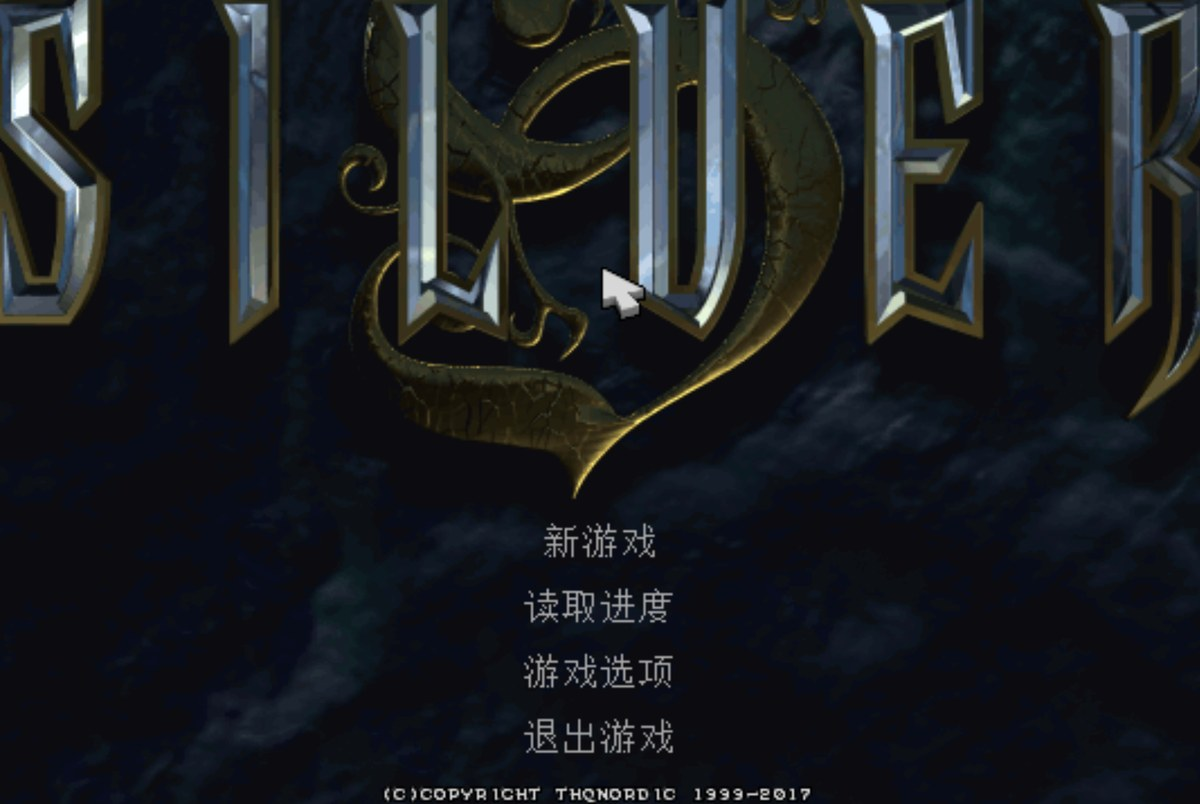
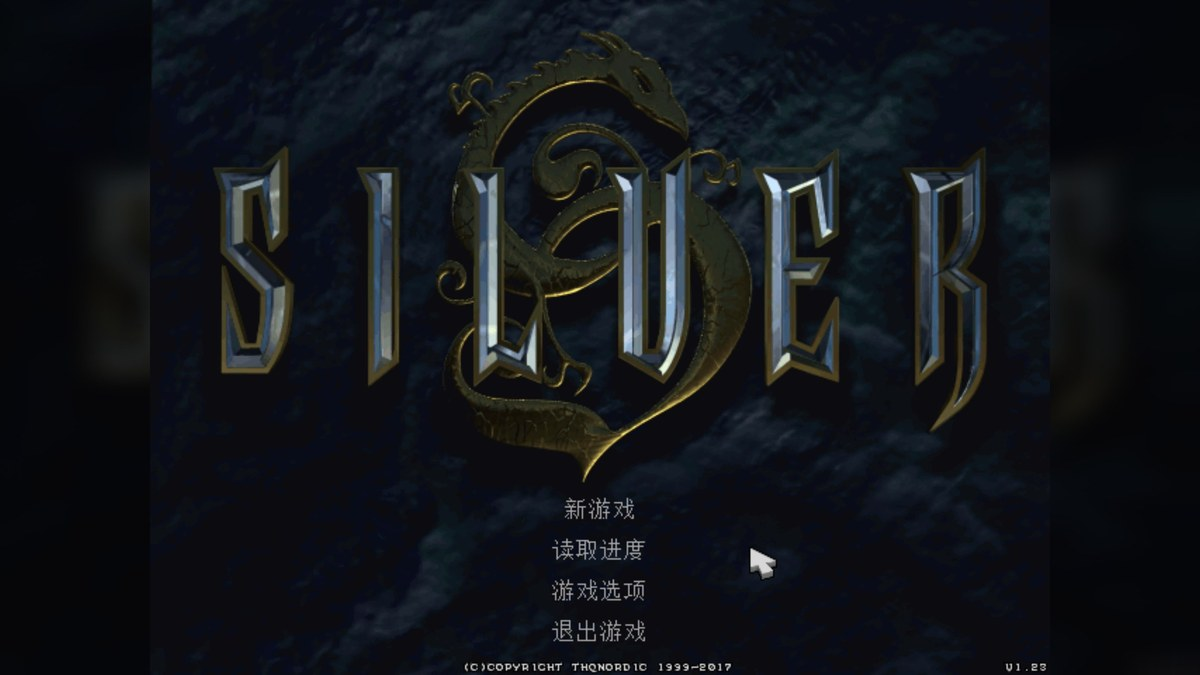
发布页：补充封面图、中文主菜单与安装器界面截图

diff --git a/README.md b/README.md
@@ -1,7 +1,7 @@
 > Silver Simplified Chinese Patch
 > 《银色幻想》简体中文汉化补丁
 
-![《银色幻想》简体中文汉化补丁](images/screenshot-menu.jpg)
+![《银色幻想》简体中文汉化补丁](images/cover.jpg)
 
 ## 一、项目背景
 
@@ -126,7 +126,7 @@
 
 ## 四、安装方法
 
-![《银色幻想》简体中文汉化补丁安装器](images/screenshot-options.jpg)《银色幻想》简体中文汉化补丁安装器
+![《银色幻想》简体中文汉化补丁安装器](images/installer.png)《银色幻想》简体中文汉化补丁安装器
 
 本汉化补丁适配 **Steam 版《银色幻想》**，请先确认游戏已安装并可正常启动。
 
